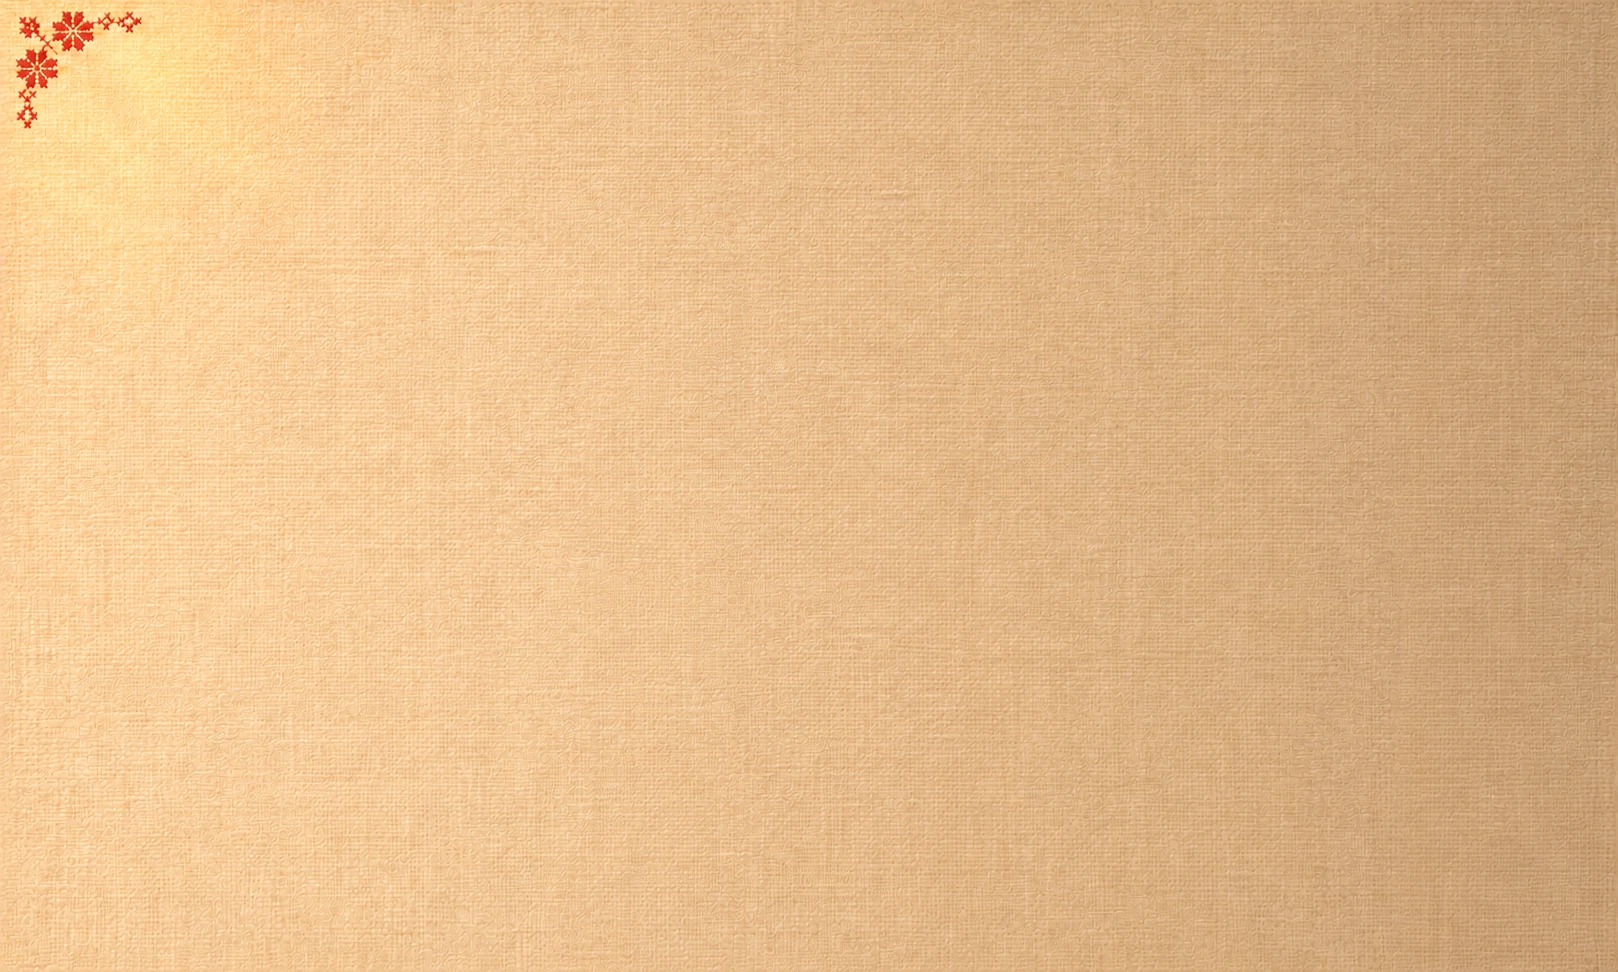
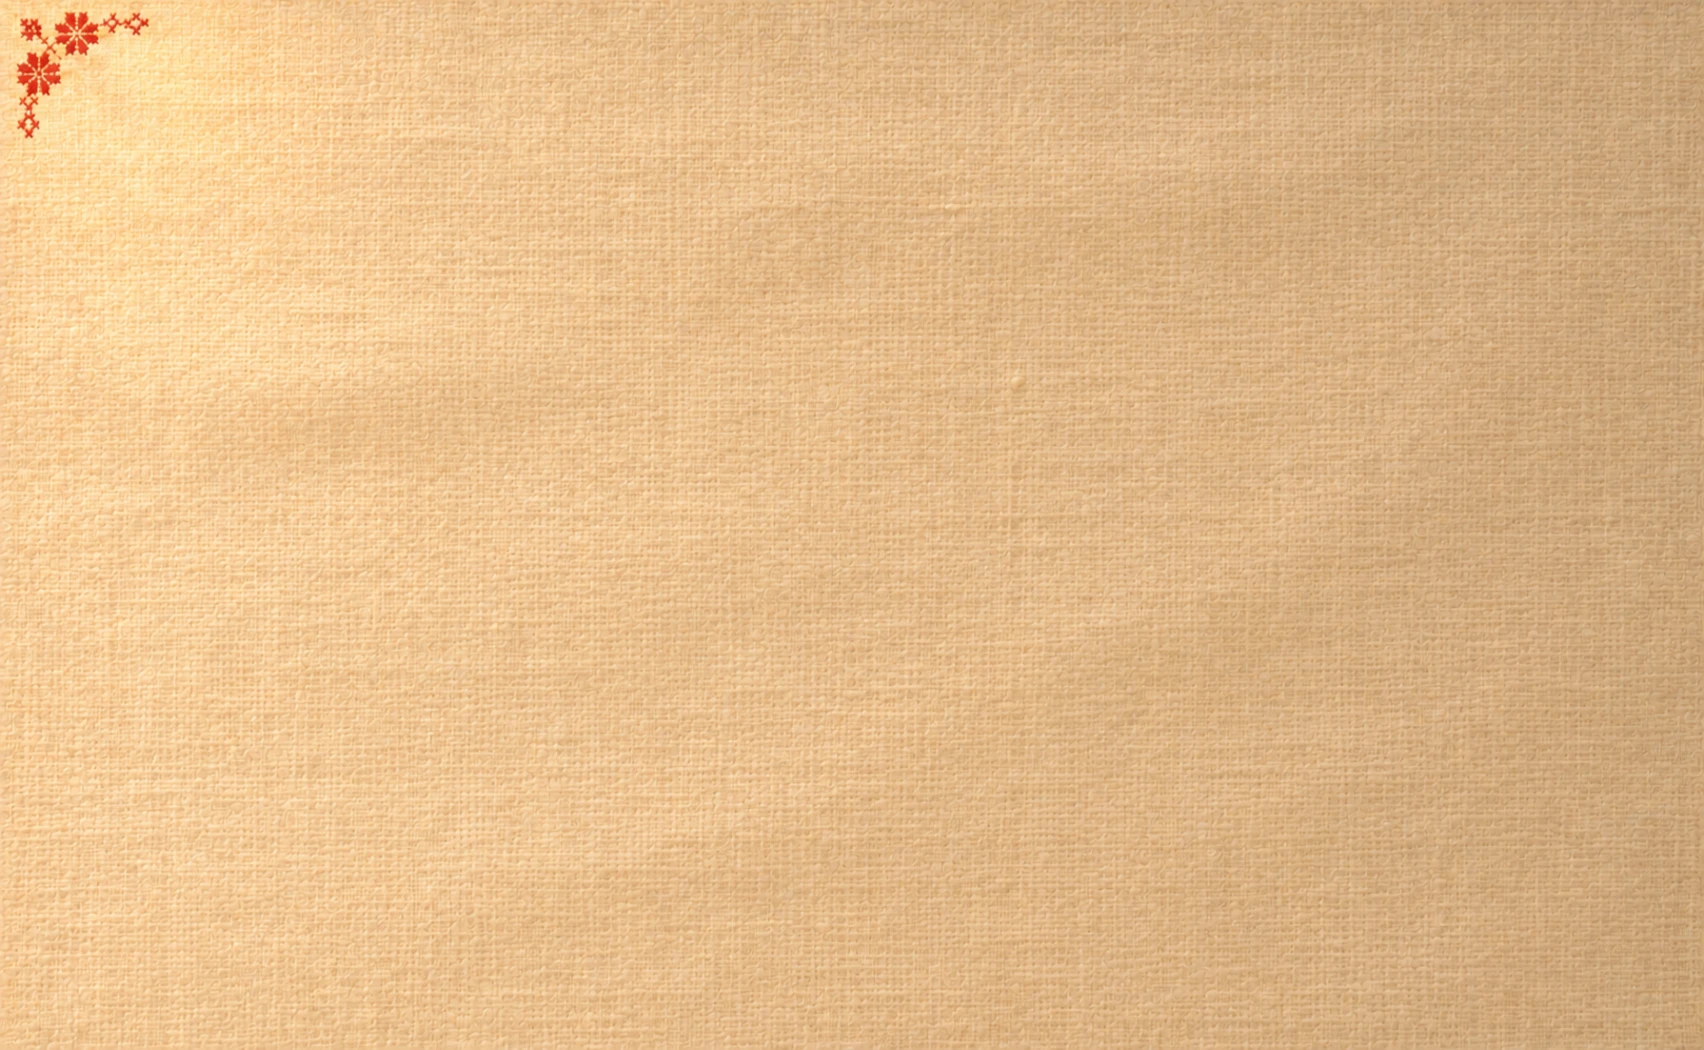
Knowledge map: new taller linen background
Claude-Session: https://claude.ai/code/session_01LvBFGzeMfHTaYJ7uVyqQ2u

diff --git a/urednik-karte.html b/urednik-karte.html
@@ -23,7 +23,7 @@ select,input[type=text]{width:100%;padding:4px;border:2px solid #8a5a2a;border-r
 #bar{background:#dcc48b;padding:6px 10px;border-bottom:3px solid #8a5a2a;font-size:13px;display:flex;flex-wrap:wrap;gap:6px;align-items:center}
 #bar input[type=range]{width:120px}
 #board{flex:1;overflow:auto;position:relative;background:#cdb27a}
-#wrap{position:relative;width:5600px;height:738px;margin:30px 0;background:url(assets/ui/karta/platno_nova.webp) 0 0/1704px 100% repeat-x;box-shadow:0 0 0 3px #5b3a1c}
+#wrap{position:relative;width:5600px;height:738px;margin:30px 0;background:url(assets/ui/karta/platno_nova.webp?v=2) 0 0/1704px 100% repeat-x;box-shadow:0 0 0 3px #5b3a1c}
 #cv{position:absolute;left:0;top:36px;width:5600px;height:702px}
 #cv.grid{background-image:linear-gradient(rgba(120,60,20,.25) 1px,transparent 1px);background-size:100% 128px}
 #win{position:absolute;left:0;top:0;width:1704px;height:738px;border:3px dashed #c0291a;box-sizing:border-box;pointer-events:none;z-index:3;display:none}

diff --git a/css/knowledge-tree.css b/css/knowledge-tree.css
@@ -16,7 +16,7 @@ body.kt-open #ktRoot{display:flex}
 .kt-tab.on{color:#fff3dc;background-image:url(../assets/ui/karta/tab_crveni.webp);text-shadow:0 1px 2px rgba(60,10,5,.7)}
 .kt-tab:not(.on):hover{filter:brightness(1.05)}
 #ktNazad{position:absolute;left:100px;top:928px;width:166px;height:48px;cursor:pointer}
-#ktBoard{position:absolute;left:66px;top:239px;width:1704px;height:738px;overflow-x:auto;overflow-y:hidden;cursor:grab;scrollbar-width:none;background:url(../assets/ui/karta/platno_nova.webp) 0 0/1704px 100% repeat-x}
+#ktBoard{position:absolute;left:66px;top:239px;width:1704px;height:738px;overflow-x:auto;overflow-y:hidden;cursor:grab;scrollbar-width:none;background:url(../assets/ui/karta/platno_nova.webp?v=2) 0 0/1704px 100% repeat-x}
 #ktBoard::-webkit-scrollbar{display:none}
 #ktBoard.drag{cursor:grabbing}
 #ktInner{position:relative;height:100%}

diff --git a/index.html b/index.html
@@ -16,7 +16,7 @@
 <link href="css/ui-visible-shadow.css?v=1" rel="stylesheet"/>
 <link href="css/ui-scene-light.css?v=5" rel="stylesheet"/>
 <link href="css/ke-pergament.css?v=14" rel="stylesheet"/>
-<link href="css/knowledge-tree.css?v=24" rel="stylesheet"/>
+<link href="css/knowledge-tree.css?v=25" rel="stylesheet"/>
 <link href="css/pantry-scene.css?v=3.12" rel="stylesheet"/>
 <link href="css/tavern-scene.css?v=2" rel="stylesheet"/>
 </head>
